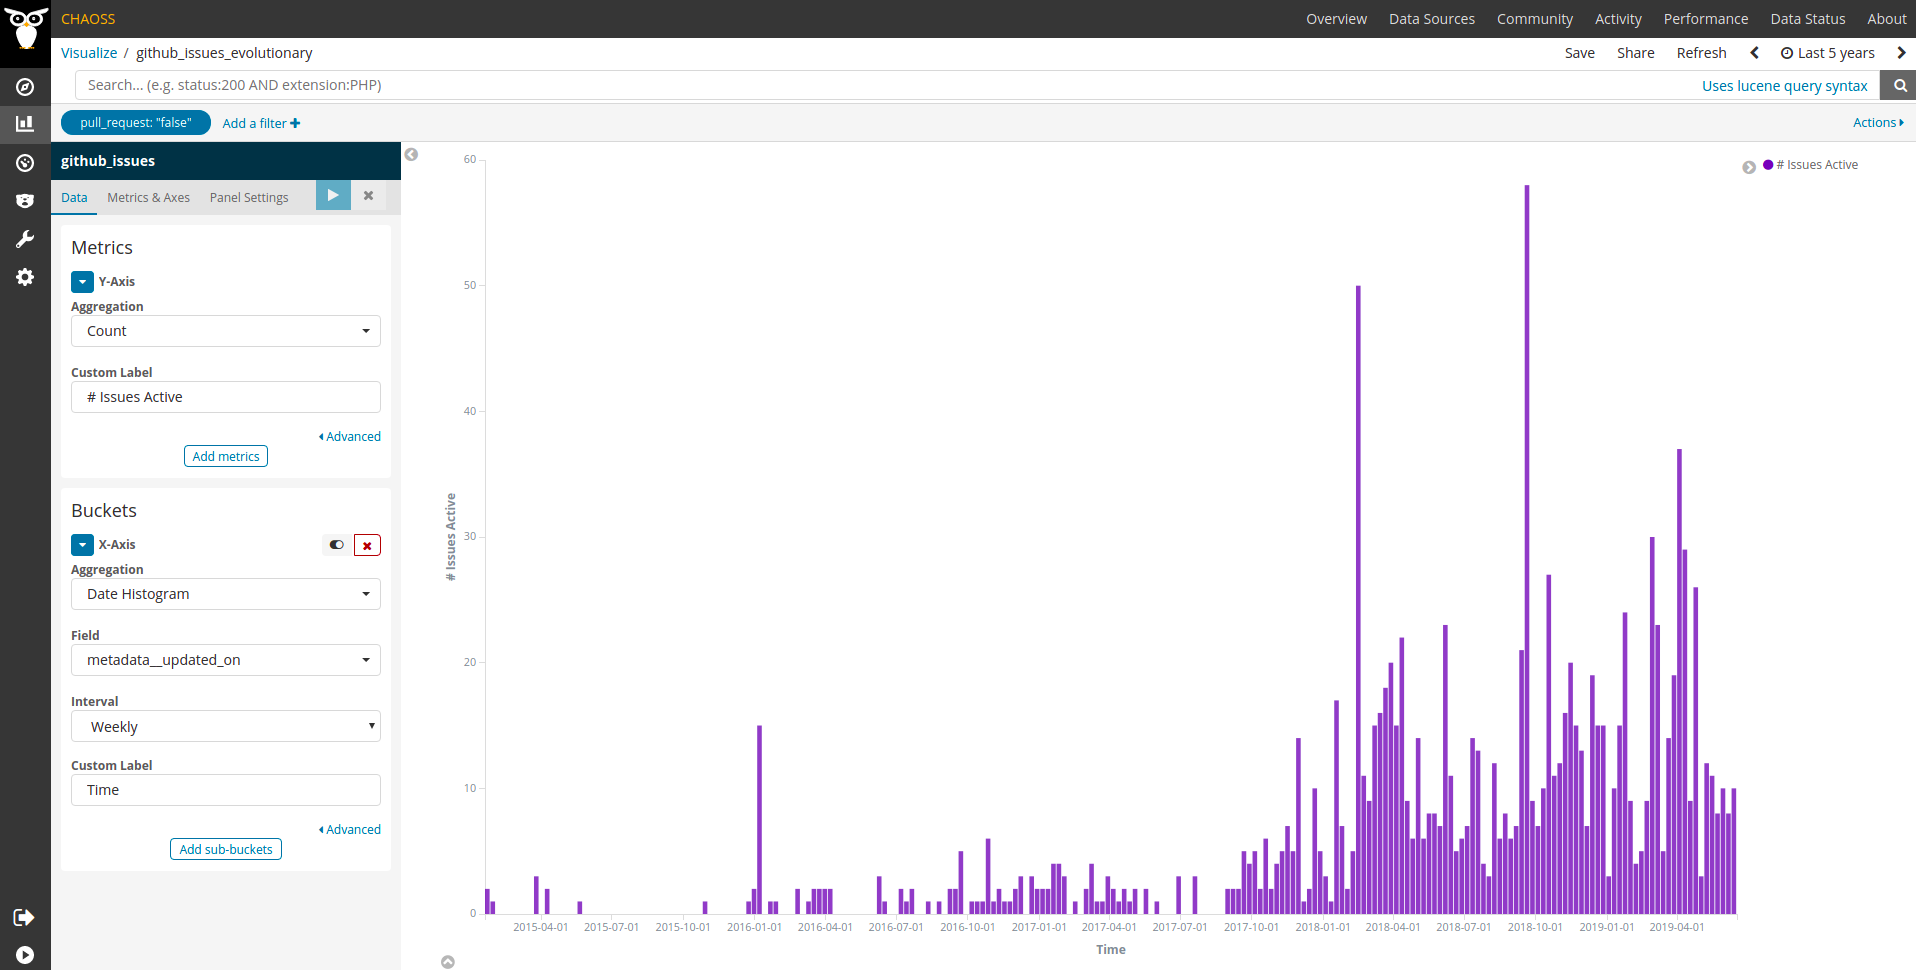
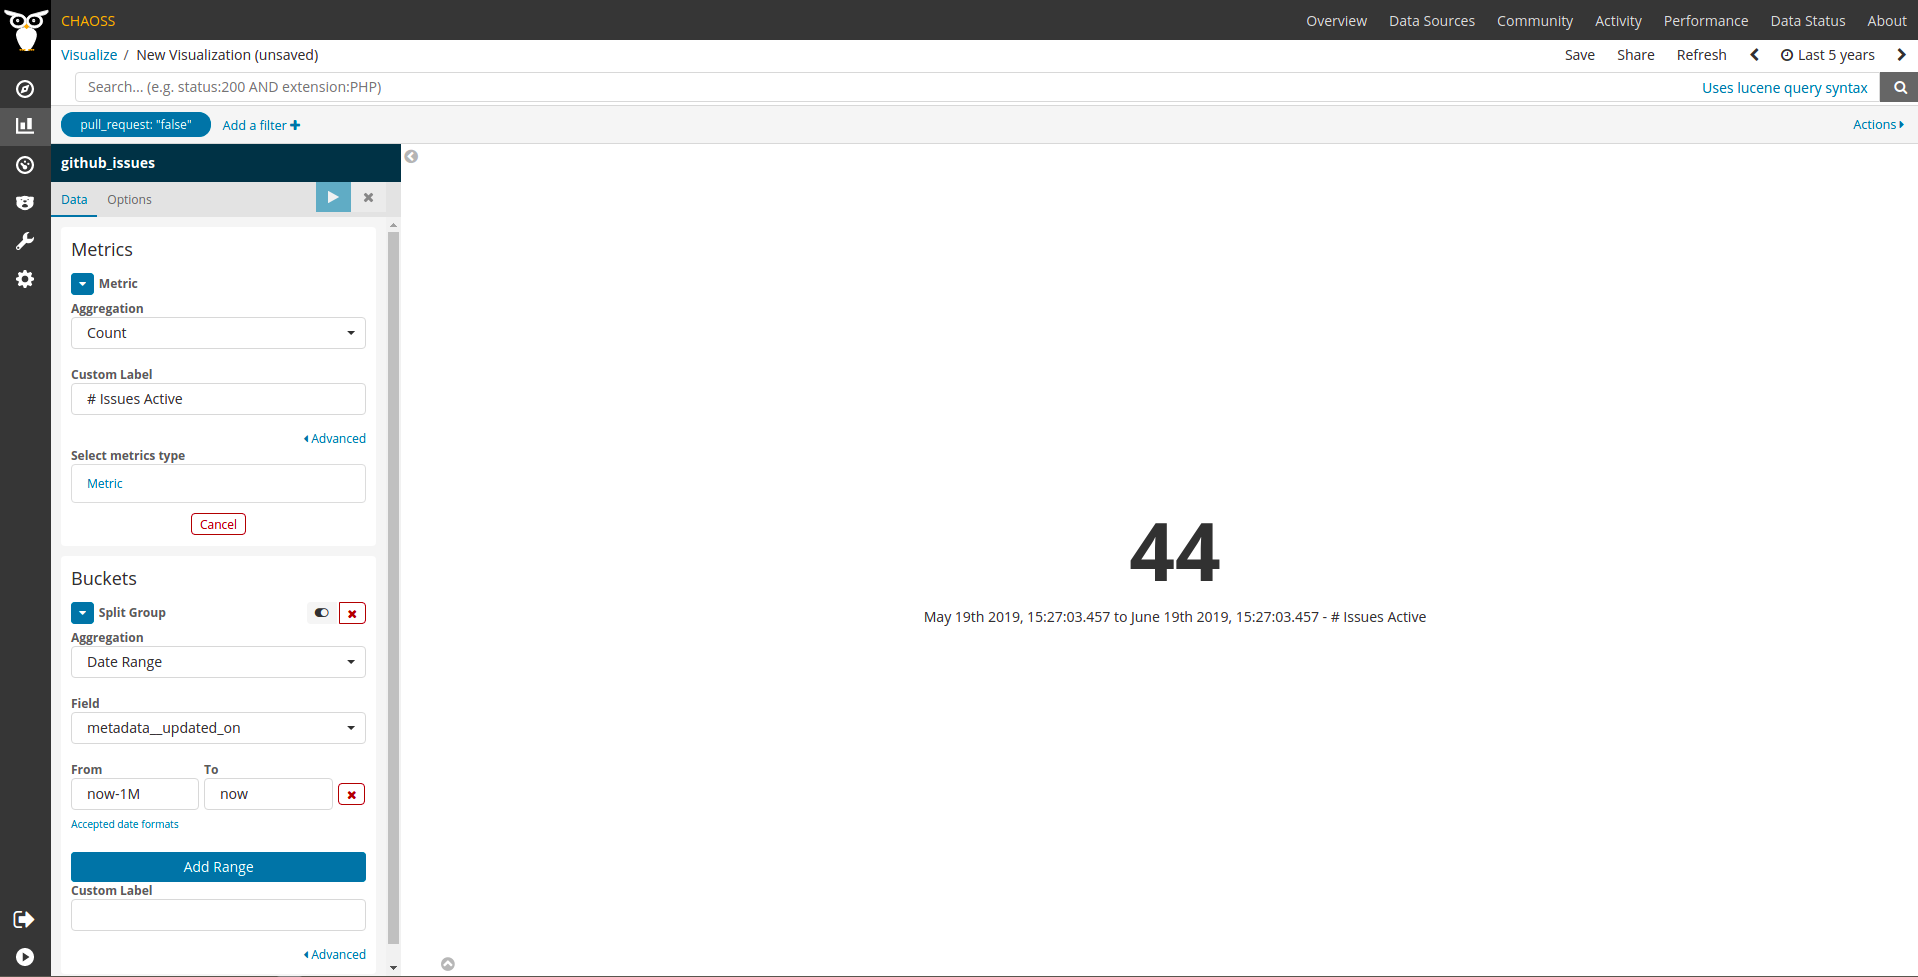
Update GrimoireLab example
These changes address the comments made at #171

diff --git a/metrics/Issues_Active.md b/metrics/Issues_Active.md
@@ -116,14 +116,16 @@ during a certain period (eg, a month).
 
 ## Known Implementations
 
-* [GrimoireLab](https://chaoss.github.io/grimoirelab) provides data for computing this metric for GitHub Issues, GitLab issues, Jira, Bugzilla and Redmine. Depending on the source API, the definition of what is considered an update on the issue could vary. GrimoireLab uses `metadata__updated_on` to store latest issue update, please check [Perceval documentation](https://perceval.readthedocs.io/en/latest/search.html?q=metadata_updated_on&check_keywords=yes&area=default) to look for the specific API field being used in each case and understand its limitations, if any.
-  - Currently, there is no dashboard showing this kind of metric. Nevertheless, it is easy to build a visualization that shows issues based on latest update (we'll do it for GitHub Issues here).
+* [GrimoireLab](https://chaoss.github.io/grimoirelab) provides data for computing a metric close to the one described in this page for GitHub Issues, GitLab issues, Jira, Bugzilla and Redmine. In terms of the metric, **GrimoireLab data have only the date of the last update of each item, which limits computing this metric to time ranges ending on the current date**.
+  - Depending on the source API, the definition of what is considered an update on the issue could vary. GrimoireLab uses `metadata__updated_on` to store latest issue update, please check [Perceval documentation](https://perceval.readthedocs.io/en/latest/search.html?q=metadata_updated_on&check_keywords=yes&area=default) to look for the specific API field being used in each case and understand its limitations, if any. 
+  - Currently, there is no dashboard showing this in action. Nevertheless, it is easy to build a visualization that shows the number uses which last activity occurred at some point between a date and current date (we'll do it for GitHub Issues here).
   - Add a sample visualization to any GrimoreLab Kibiter dashboard following these instructions:
-    * Create a new `Vertical Bar` chart.
+    * Create a new `Metric` visualization.
     * Select the `github_issues` index.
     * Filter: `pull_request` is `false`.
-    * Metrics Y-axis: `Count` Aggregation, `# Issues Active` Custom Label.
-    * Buckets X-axis: `Date Histogram` Aggregation, `metadata__updated_on` Field, `Weekly` Interval (or whatever interval may fit your needs, depending on the whole time range you wish to visualize in the chart), `Time` Custom Label.
+    * Metric: `Count` Aggregation, `# Issues Active` Custom Label.
+    * Buckets: `Date Range` Aggregation, `metadata__updated_on` Field, `now-1M` From (or whatever interval may fit your needs), `now` To, leave Custom Label empty to see the specific dates in the legend.
+    * Have a look at the time picker on the top right corner to make sure it is set to include the whole story of the data so we are not excluding any item based on its creation date.
   - Example screenshot: ![GrimoireLab screenshot of metric issues_active](./images/issues_active_GrimoireLab.png).
 
 ## External References (Literature)
